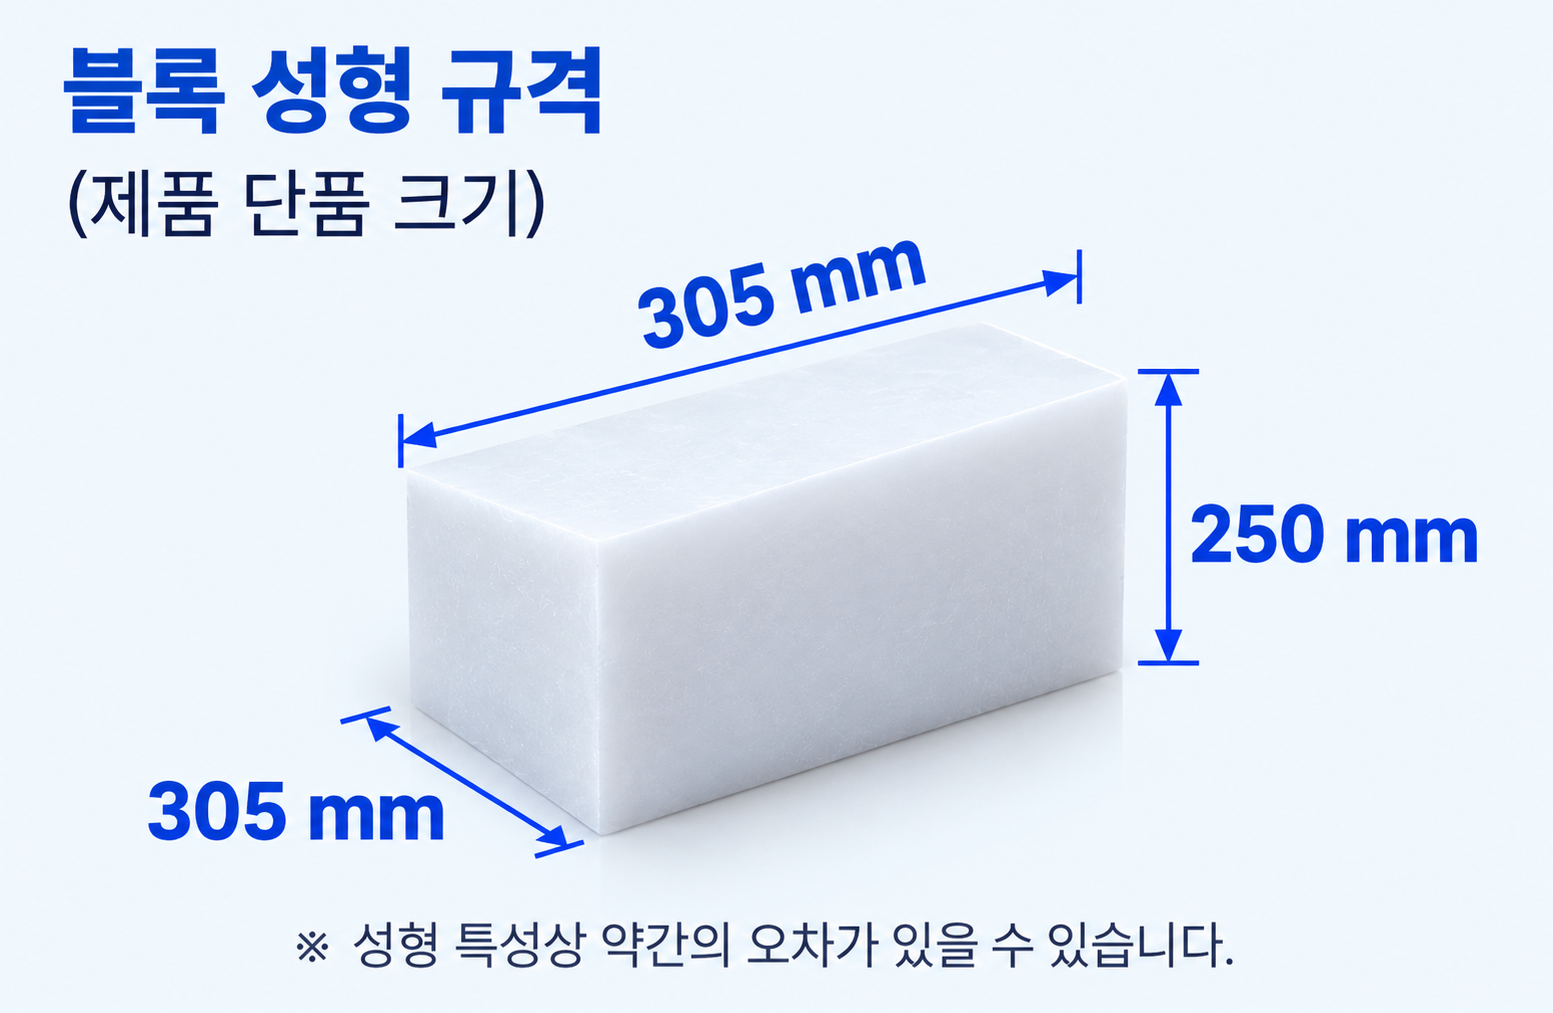
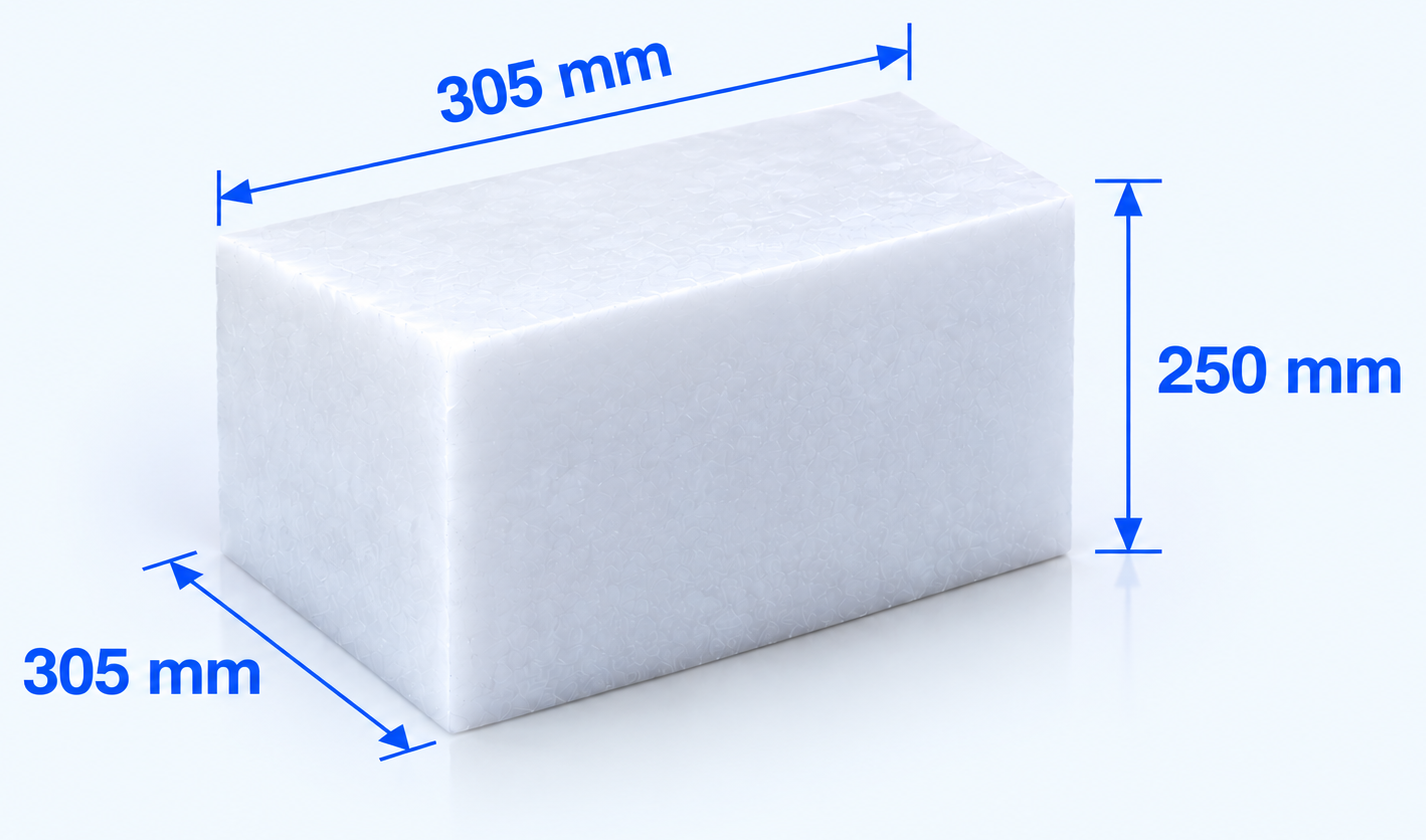
드라이아이스 블록 성형 규격 도면을 새 깨끗한 이미지로 교체, HTML 제목(블록 성형 규격·제품 단품 크기)+오차 안내로 너겟과 통일. dim-block ?v=b, style.css ?v=512

Changed region(s): [[0.0, 0.1857, 0.9874, 0.9595], [0.0309, 0.031, 0.5554, 0.2476], [0.5554, 0.031, 0.648, 0.0929]]

diff --git a/products-ice.html b/products-ice.html
@@ -7,7 +7,7 @@
   <meta name="description" content="드라이아이스 너겟·블록 생산설비 日産 36톤. 고밀도 1.60g/㎤·고순도 99.995% 식품용 드라이아이스와 제조공정·용도·취급안전을 소개합니다.">
   <link rel="stylesheet" href="assets/css/reset.css">
   <link rel="stylesheet" href="assets/css/variables.css?v=20260801">
-  <link rel="stylesheet" href="assets/css/style.css?v=20260731-511">
+  <link rel="stylesheet" href="assets/css/style.css?v=20260731-512">
 </head>
 <body>
 
@@ -363,7 +363,11 @@
                 <p class="specpanel__desc">대형 규격으로 성형된 드라이아이스로 장시간의 냉각이 필요한 환경에 적합합니다.</p>
                 <div class="icespec-figs">
                   <div class="icespec-figs__photo icespec-figs__photo--contain"><img src="assets/images/site/ice-block-product.jpg?v=20260831" alt="블록 드라이아이스" loading="lazy"></div>
-                  <figure class="icespec-figs__dim"><img src="assets/images/site/icespec/dim-block.png?v=20260910" alt="블록 성형 규격 305×305×250mm" loading="lazy"></figure>
+                  <figure class="icespec-figs__dim icespec-figs__dim--titled">
+                    <figcaption class="icespec-figs__dimtitle">블록 성형 규격 <em>(제품 단품 크기)</em></figcaption>
+                    <img src="assets/images/site/icespec/dim-block.png?v=20260910b" alt="블록 성형 규격 305×305×250mm" loading="lazy">
+                    <span class="icespec-figs__dimnote">※ 성형 특성상 약간의 오차가 있을 수 있습니다.</span>
+                  </figure>
                 </div>
                 <ul class="specfacts">
                   <li class="specfact">

diff --git a/assets/css/style.css b/assets/css/style.css
@@ -1804,6 +1804,7 @@ html[lang="en"] .greeting__sign .sign-name { display: block; margin-left: 0; mar
 .icespec-figs__dim { margin: 0; align-self: start; aspect-ratio: 1.85 / 1; background: var(--surface-brand); border: 1px solid var(--border); border-radius: var(--radius-lg); box-shadow: var(--shadow-sm); display: flex; flex-direction: column; align-items: stretch; justify-content: center; padding: var(--space-4) var(--space-5); overflow: hidden; }
 .icespec-figs__dim img { max-width: 100%; max-height: 100%; object-fit: contain; display: block; margin: 0 auto; mix-blend-mode: multiply; }
 .icespec-figs__dimtitle { font-size: 1.02rem; font-weight: 800; color: var(--eyebrow); margin: 0 0 var(--space-2); }
+.icespec-figs__dimtitle em { font-style: normal; font-size: .82rem; font-weight: 600; color: var(--text-muted); margin-left: .25em; }
 .icespec-figs__dimnote { display: block; margin-top: auto; padding-top: var(--space-2); text-align: right; font-size: .74rem; color: var(--text-muted); }
 .icespec-figs__dim--titled img { min-height: 0; flex: 1; }
 .specrows--cols th, .specrows--cols td { width: auto; text-align: center; border-radius: 0; }

diff --git a/company.html b/company.html
@@ -7,7 +7,7 @@
   <meta name="description" content="한국탄산화학㈜ 회사소개 — 회사 개요, 주요 사업 영역, 연혁, 조직도, 생산시설 및 강점.">
   <link rel="stylesheet" href="assets/css/reset.css">
   <link rel="stylesheet" href="assets/css/variables.css?v=20260801">
-  <link rel="stylesheet" href="assets/css/style.css?v=20260731-511">
+  <link rel="stylesheet" href="assets/css/style.css?v=20260731-512">
   <!-- 대표이사 서명용 손글씨 폰트 (한글: Nanum Pen Script, 일어: Yomogi) -->
   <link rel="preconnect" href="https://fonts.googleapis.com">
   <link rel="preconnect" href="https://fonts.gstatic.com" crossorigin>

diff --git a/company-overview.html b/company-overview.html
@@ -8,7 +8,7 @@
   <meta name="description" content="한국탄산화학㈜ 회사 개요와 조직도 — 상호·설립·사업분야·생산제품 및 조직 구성.">
   <link rel="stylesheet" href="assets/css/reset.css">
   <link rel="stylesheet" href="assets/css/variables.css?v=20260801">
-  <link rel="stylesheet" href="assets/css/style.css?v=20260731-511">
+  <link rel="stylesheet" href="assets/css/style.css?v=20260731-512">
   <!-- 대표이사 서명용 손글씨 폰트 (한글: Nanum Pen Script, 일어: Yomogi) -->
   <link rel="preconnect" href="https://fonts.googleapis.com">
   <link rel="preconnect" href="https://fonts.gstatic.com" crossorigin>

diff --git a/company-network.html b/company-network.html
@@ -7,7 +7,7 @@
   <meta name="description" content="한국탄산화학㈜ 계열사 — 관계사 네트워크.">
   <link rel="stylesheet" href="assets/css/reset.css">
   <link rel="stylesheet" href="assets/css/variables.css?v=20260801">
-  <link rel="stylesheet" href="assets/css/style.css?v=20260731-511">
+  <link rel="stylesheet" href="assets/css/style.css?v=20260731-512">
   <!-- 대표이사 서명용 손글씨 폰트 (한글: Nanum Pen Script, 일어: Yomogi) -->
   <link rel="preconnect" href="https://fonts.googleapis.com">
   <link rel="preconnect" href="https://fonts.gstatic.com" crossorigin>

diff --git a/products-supply.html b/products-supply.html
@@ -7,7 +7,7 @@
   <meta name="description" content="고압가스 용기 재검사 — 한국가스안전공사 지정 전문검사기관 ㈜부성테크니컬(계열사)이 접수·내압시험·표면처리·판정의 4단계 검사로 용기 안전을 책임집니다.">
   <link rel="stylesheet" href="assets/css/reset.css">
   <link rel="stylesheet" href="assets/css/variables.css?v=20260801">
-  <link rel="stylesheet" href="assets/css/style.css?v=20260731-511">
+  <link rel="stylesheet" href="assets/css/style.css?v=20260731-512">
 </head>
 <body>
 

diff --git a/index.html b/index.html
@@ -7,7 +7,7 @@
   <meta name="description" content="한국탄산화학㈜(KLCC)는 산소·질소·아르곤·탄산·수소 등 산업용·의료용 가스와 드라이아이스를 제조·공급하는 전문기업입니다.">
   <link rel="stylesheet" href="assets/css/reset.css">
   <link rel="stylesheet" href="assets/css/variables.css?v=20260801">
-  <link rel="stylesheet" href="assets/css/style.css?v=20260731-511">
+  <link rel="stylesheet" href="assets/css/style.css?v=20260731-512">
 </head>
 <body>
 

diff --git a/products-construction.html b/products-construction.html
@@ -7,7 +7,7 @@
   <meta name="description" content="가스 설비 시설·시공 — 액화가스 저장탱크·기화설비·배관·공급설비를 설계부터 시운전·사후관리까지 원스톱으로 시공합니다.">
   <link rel="stylesheet" href="assets/css/reset.css">
   <link rel="stylesheet" href="assets/css/variables.css?v=20260801">
-  <link rel="stylesheet" href="assets/css/style.css?v=20260731-511">
+  <link rel="stylesheet" href="assets/css/style.css?v=20260731-512">
 </head>
 <body>
 

diff --git a/products-gas.html b/products-gas.html
@@ -7,7 +7,7 @@
   <meta name="description" content="산업용·의료용·혼합·특수·액화석유가스 — 고순도 산소·질소·아르곤·수소·헬륨·탄산·LPG를 Bulk·실린더로 공급·제조합니다.">
   <link rel="stylesheet" href="assets/css/reset.css">
   <link rel="stylesheet" href="assets/css/variables.css?v=20260801">
-  <link rel="stylesheet" href="assets/css/style.css?v=20260731-511">
+  <link rel="stylesheet" href="assets/css/style.css?v=20260731-512">
 </head>
 <body>
 

diff --git a/quality.html b/quality.html
@@ -7,7 +7,7 @@
   <meta name="description" content="고순도 제조 역량, 식품첨가물 탄산가스 품질, 용기검사장, Gas Service Team.">
   <link rel="stylesheet" href="assets/css/reset.css">
   <link rel="stylesheet" href="assets/css/variables.css?v=20260801">
-  <link rel="stylesheet" href="assets/css/style.css?v=20260731-511">
+  <link rel="stylesheet" href="assets/css/style.css?v=20260731-512">
 </head>
 <body>
 

diff --git a/support.html b/support.html
@@ -7,7 +7,7 @@
   <meta name="description" content="한국탄산화학 고객지원 — 사업장 연락처, 자주 묻는 질문.">
   <link rel="stylesheet" href="assets/css/reset.css">
   <link rel="stylesheet" href="assets/css/variables.css?v=20260801">
-  <link rel="stylesheet" href="assets/css/style.css?v=20260731-511">
+  <link rel="stylesheet" href="assets/css/style.css?v=20260731-512">
 </head>
 <body>
 
